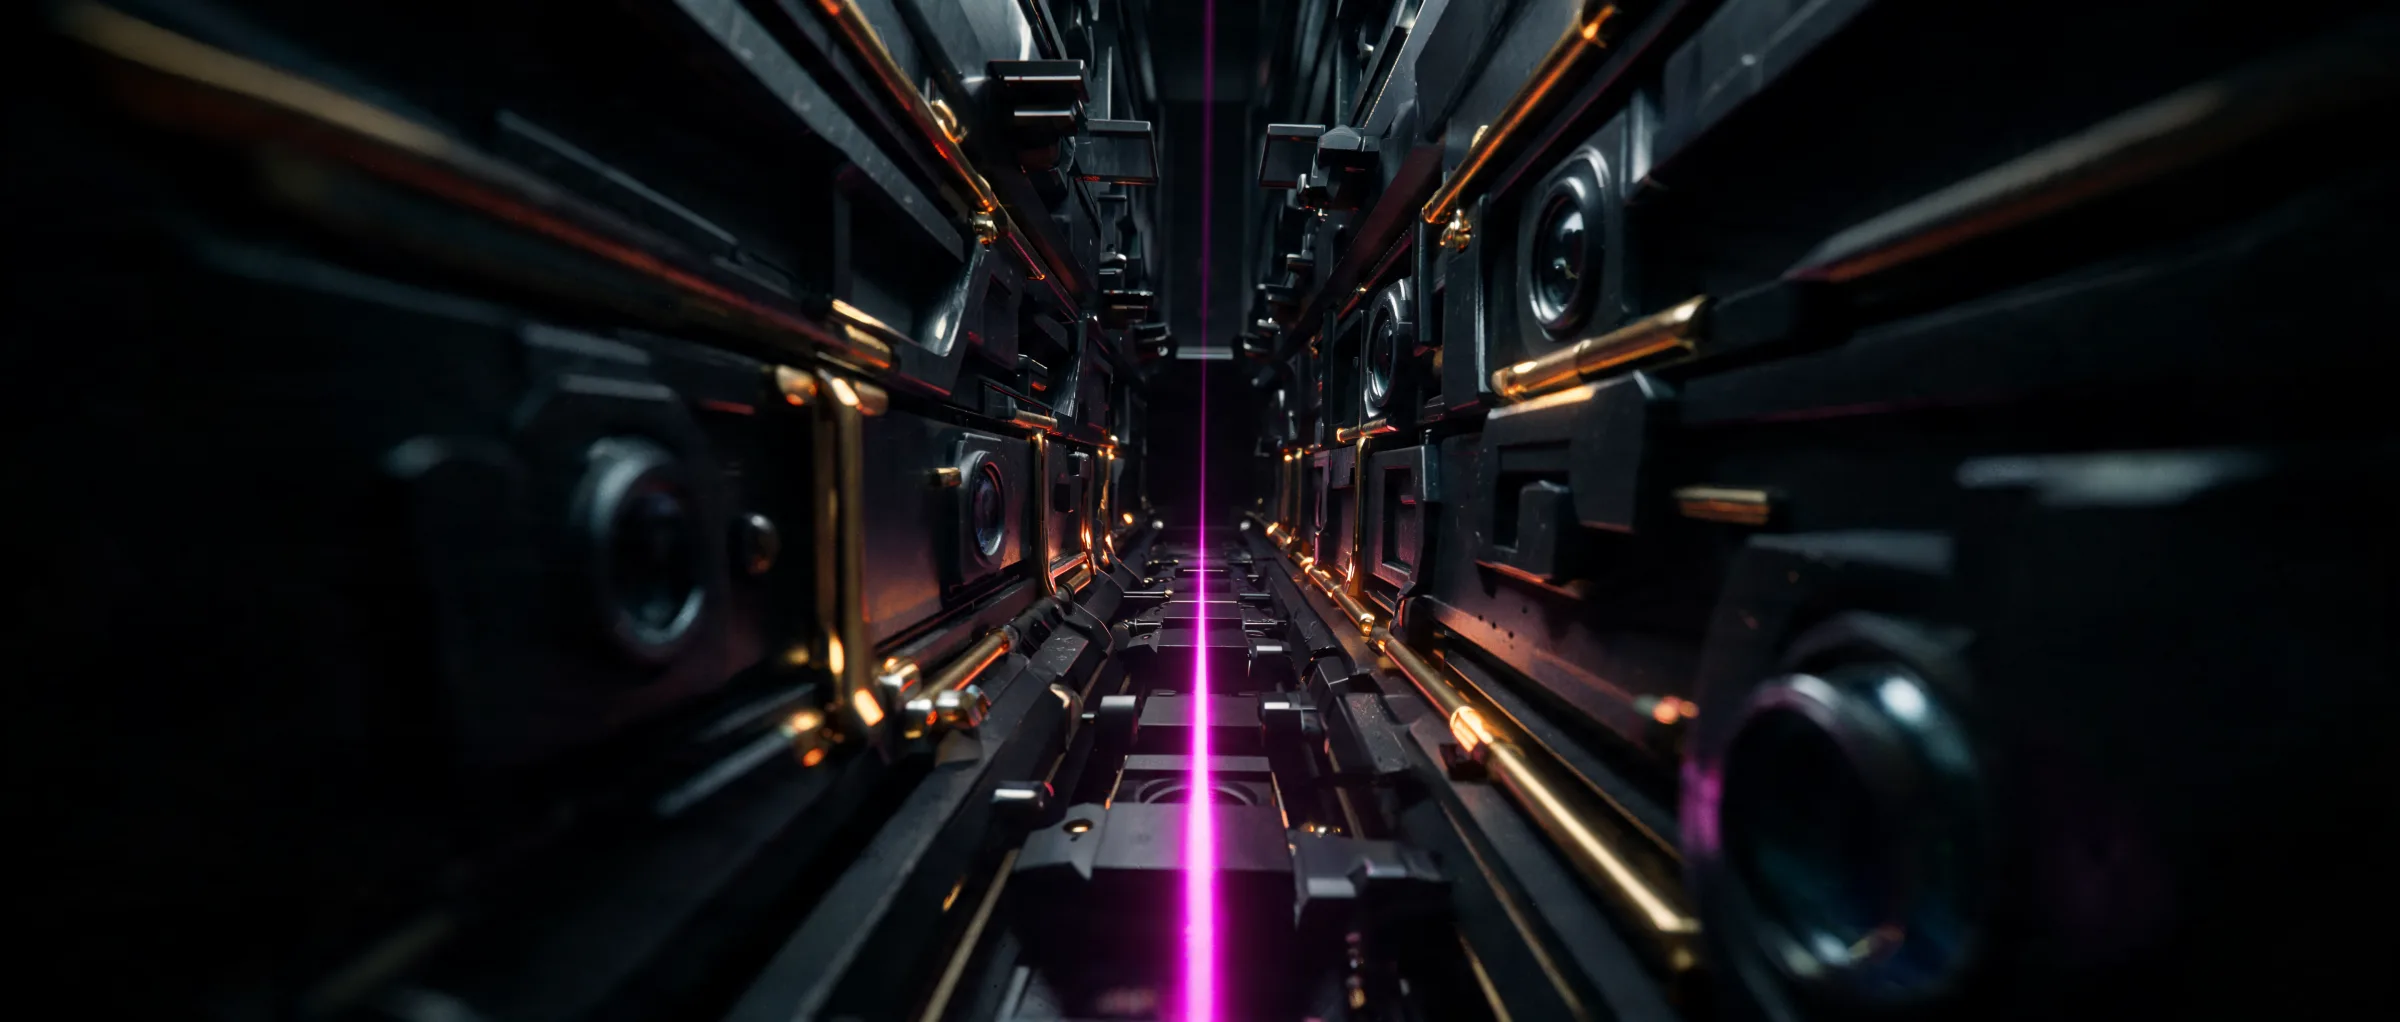
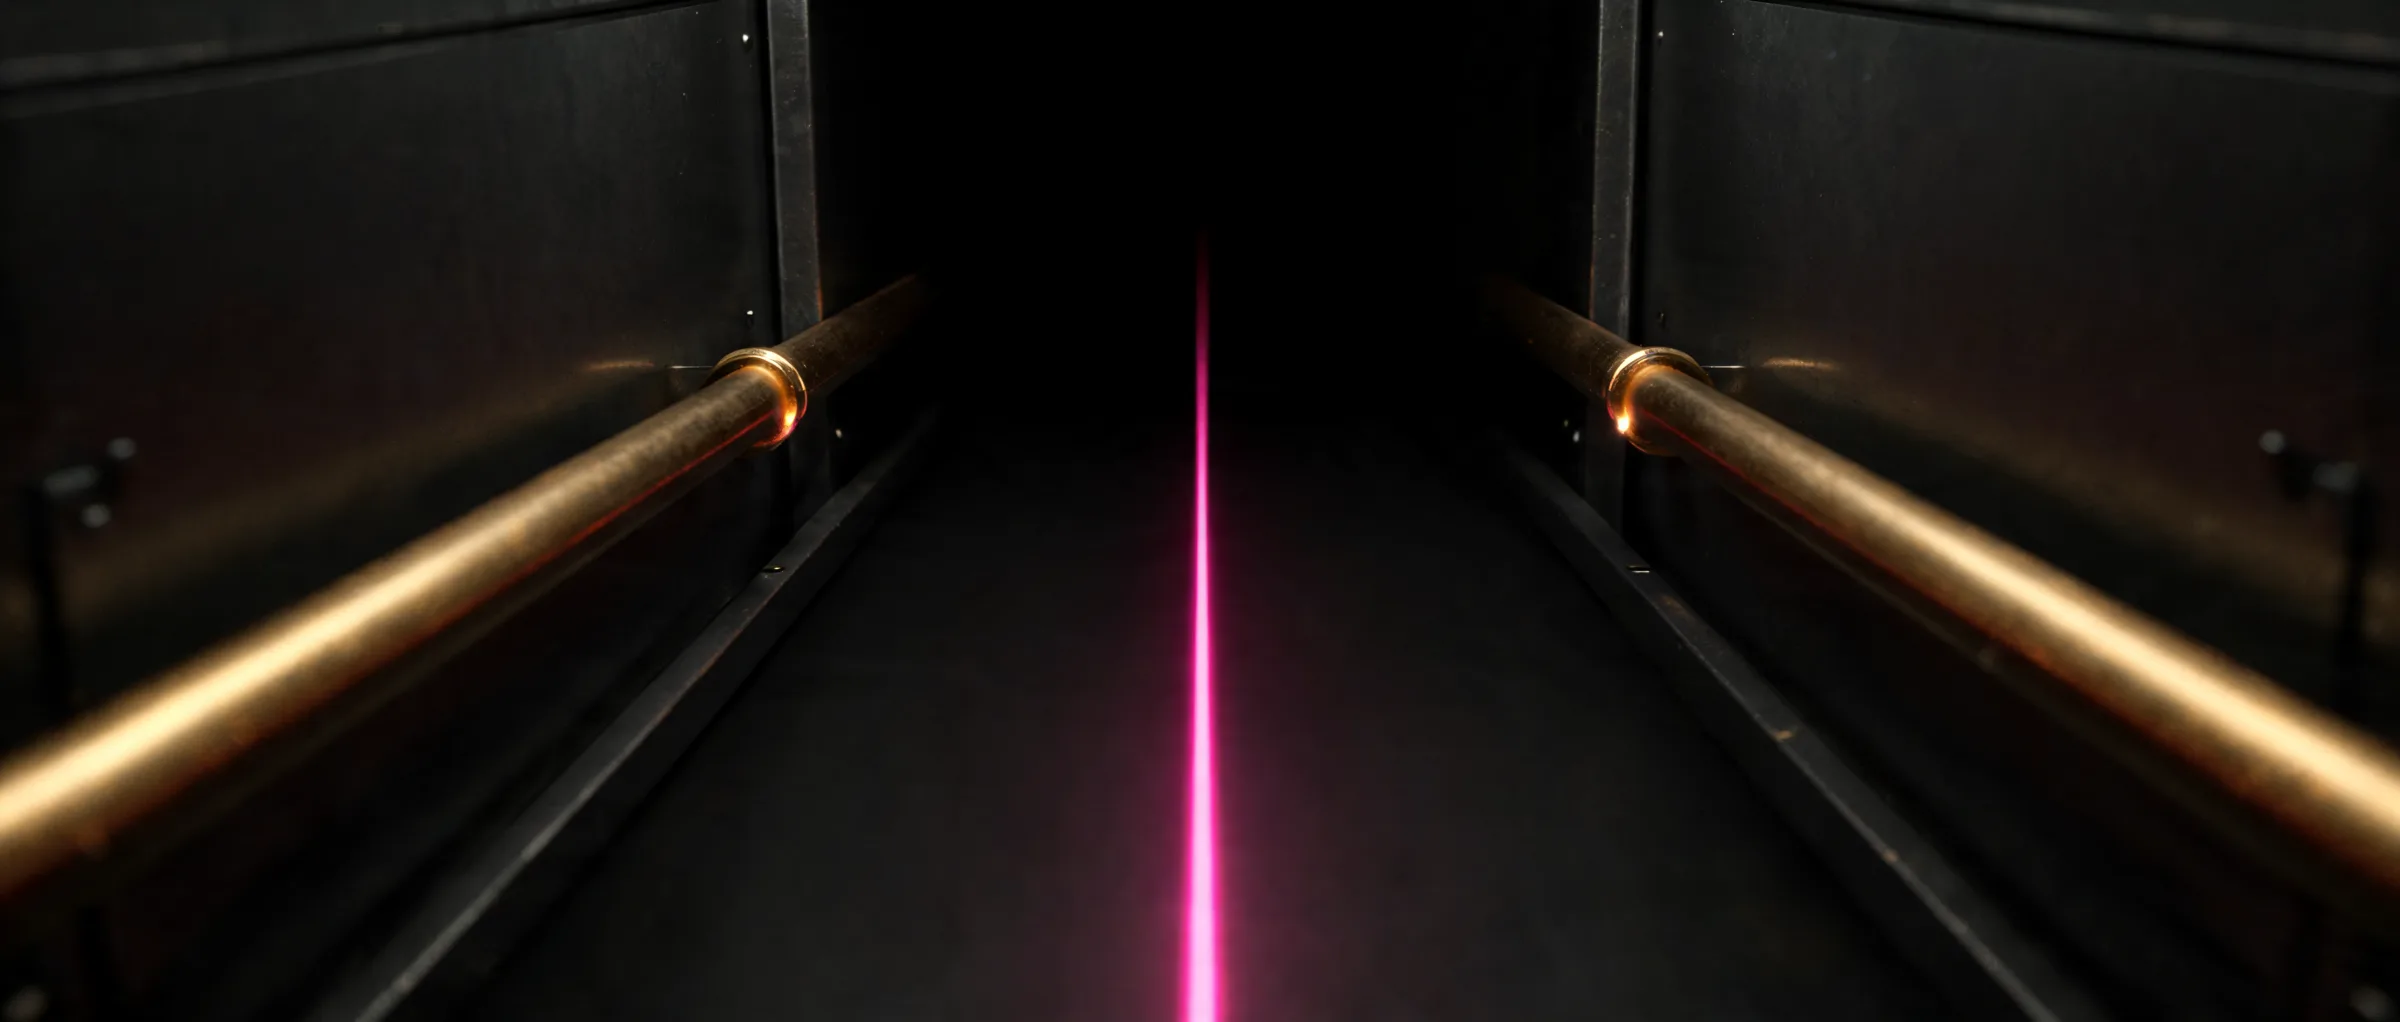
Machined Optics upgrades: selection v2, corridor v2, footer ledger
Three refires beat their predecessors and are swapped in:
- Selection: brass two-finger gripper lifting one clear cube from a matrix of
  amber-lit cells, beam threading through it. Replaces the toothed-rack take —
  the metaphor (one candidate chosen from many) now reads without explanation.
  Best frame in the set.
- Corridor: clean channel, two brass rails, one beam into pure darkness.
  Calmer than the component-heavy original and a far better i2v start frame.
- Footer: rows of glass slabs in brass rails, each carrying one etched amber
  line, receding into black. The story's last beat — the ledger at rest —
  replacing the organic swirl.

Remaining off-world art: the Trust cross-fade (needs the 4-frame etch set) and
the hero film (needs Seedance i2v off the new corridor). Sweep clean at six
widths.

diff --git a/src/components/Footer.tsx b/src/components/Footer.tsx
@@ -27,14 +27,14 @@ export const Footer: React.FC<FooterProps> = ({ onBookCall }) => (
         image being stacked or cropped to a letterbox strip. */}
     <div aria-hidden className="relative w-full h-[180px] sm:h-[240px] md:h-[320px] overflow-hidden">
       <img
-        src="/images/swirl.webp"
+        src="/images/mo-footer.webp"
         alt=""
         loading="lazy"
         decoding="async"
-        /* object-bottom: the seed head sits low-left in the frame and the lit
-           trail arcs up and right. Anchoring to the bottom keeps the head in
-           shot at every height instead of cropping it away as the band
-           shortens on mobile. */
+        /* The ledger at rest — rows of etched glass slabs receding into black,
+           the story's last beat. object-bottom keeps the near rows (where the
+           etched lines read) in shot as the band shortens on mobile; the far
+           rows are the ones that can be lost. */
         className="absolute inset-0 h-full w-full object-cover object-bottom"
       />
       {/* Bottom hand-off only. */}
